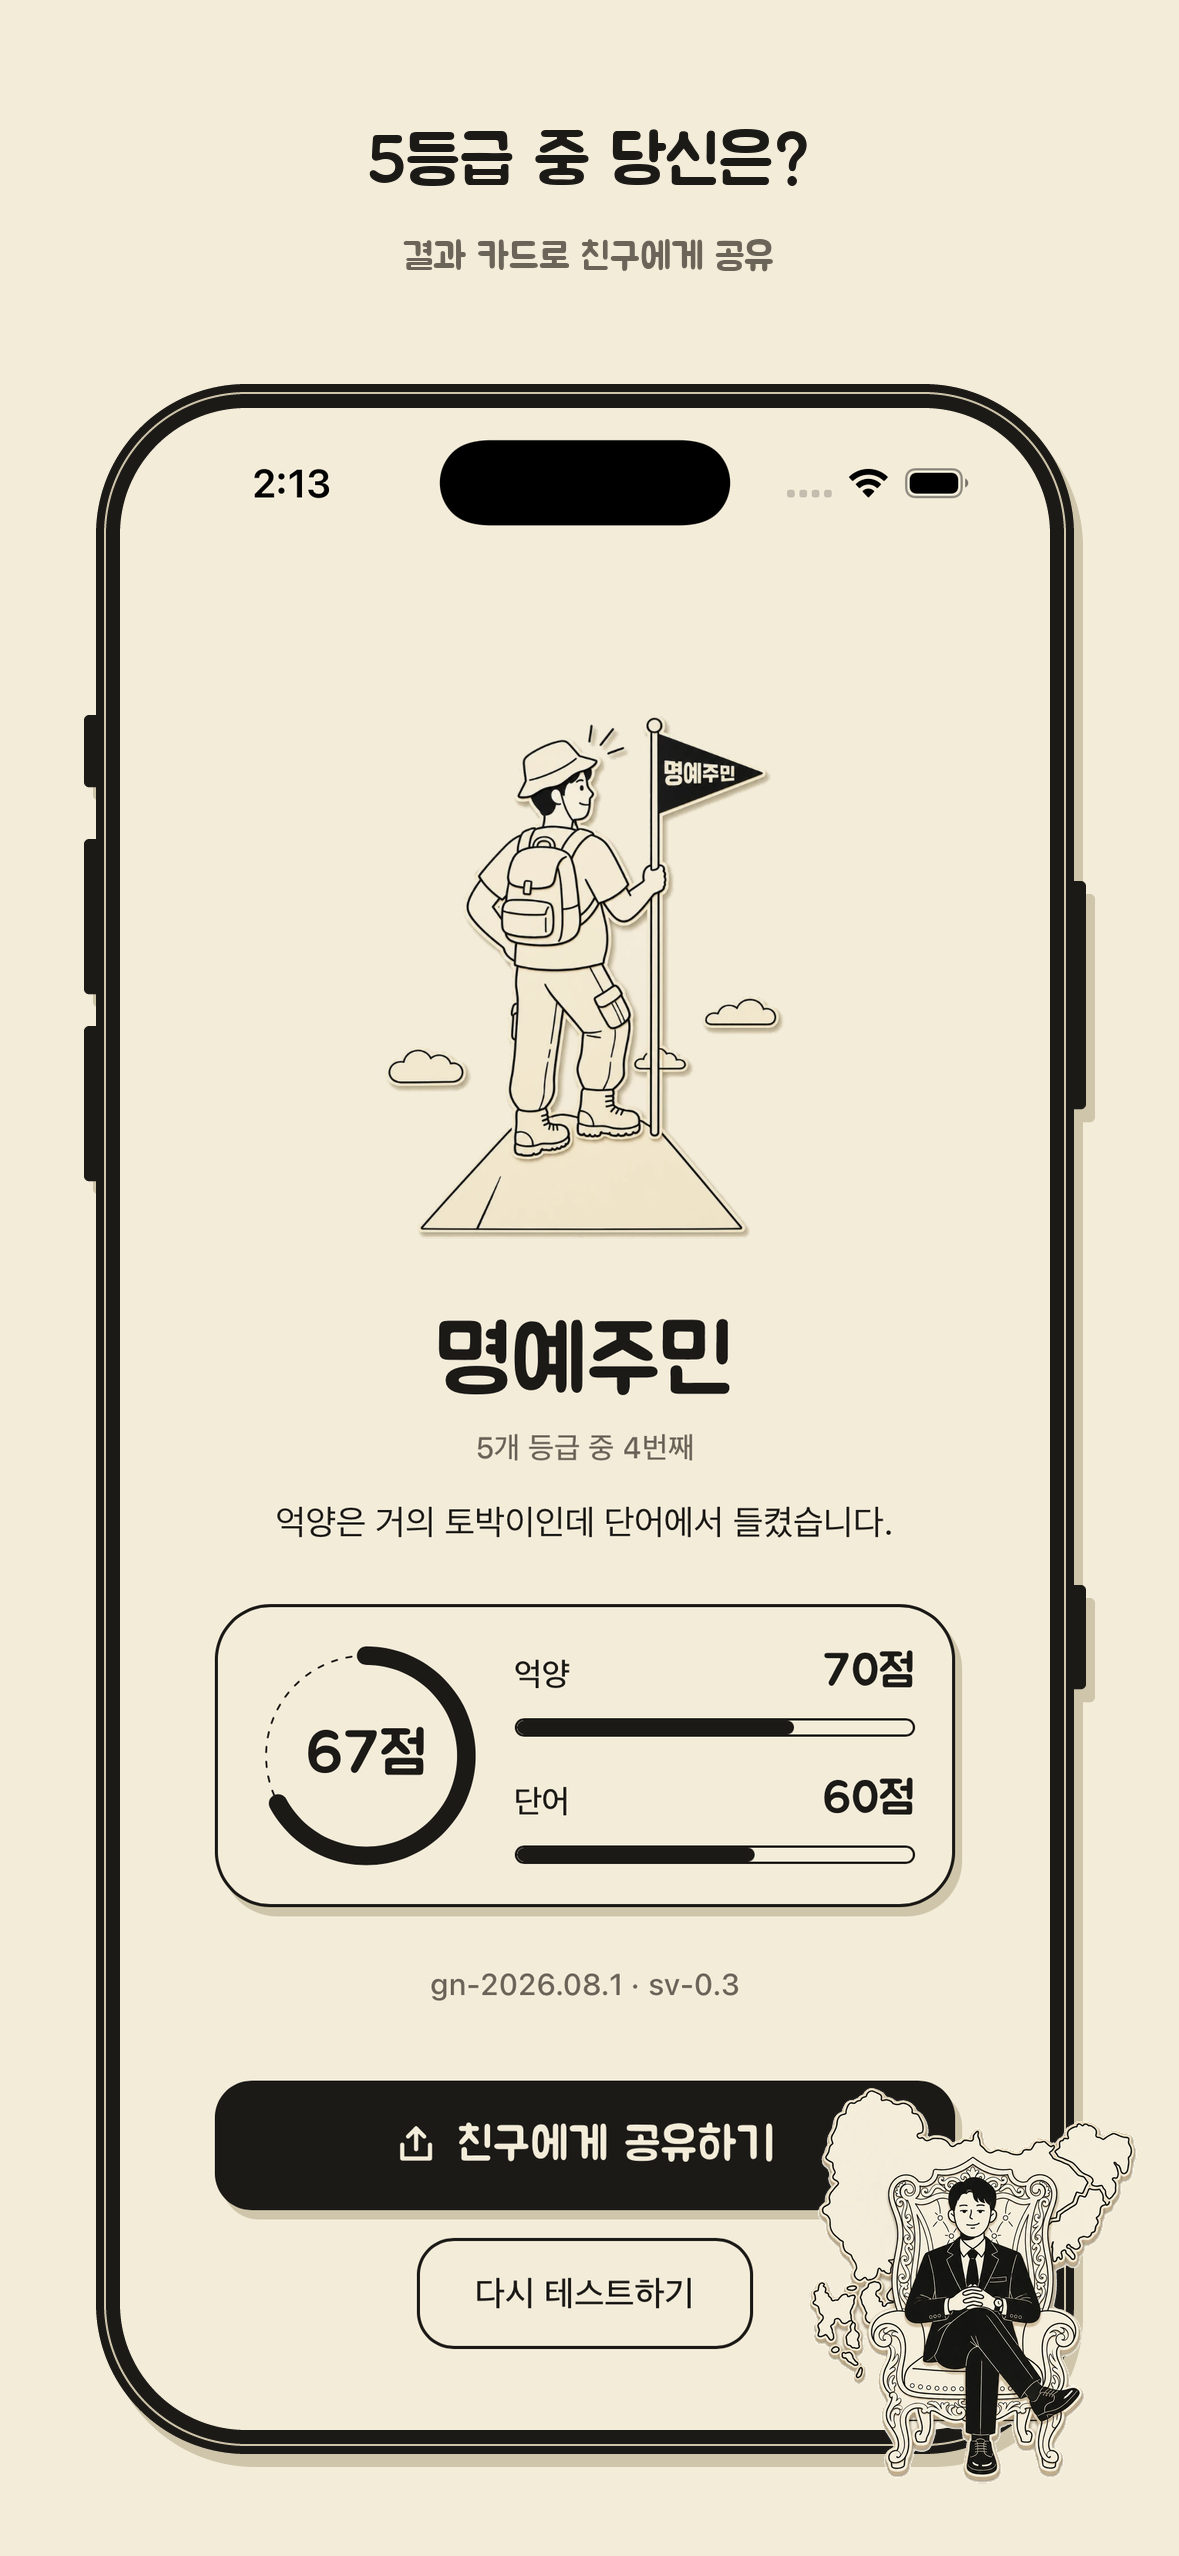
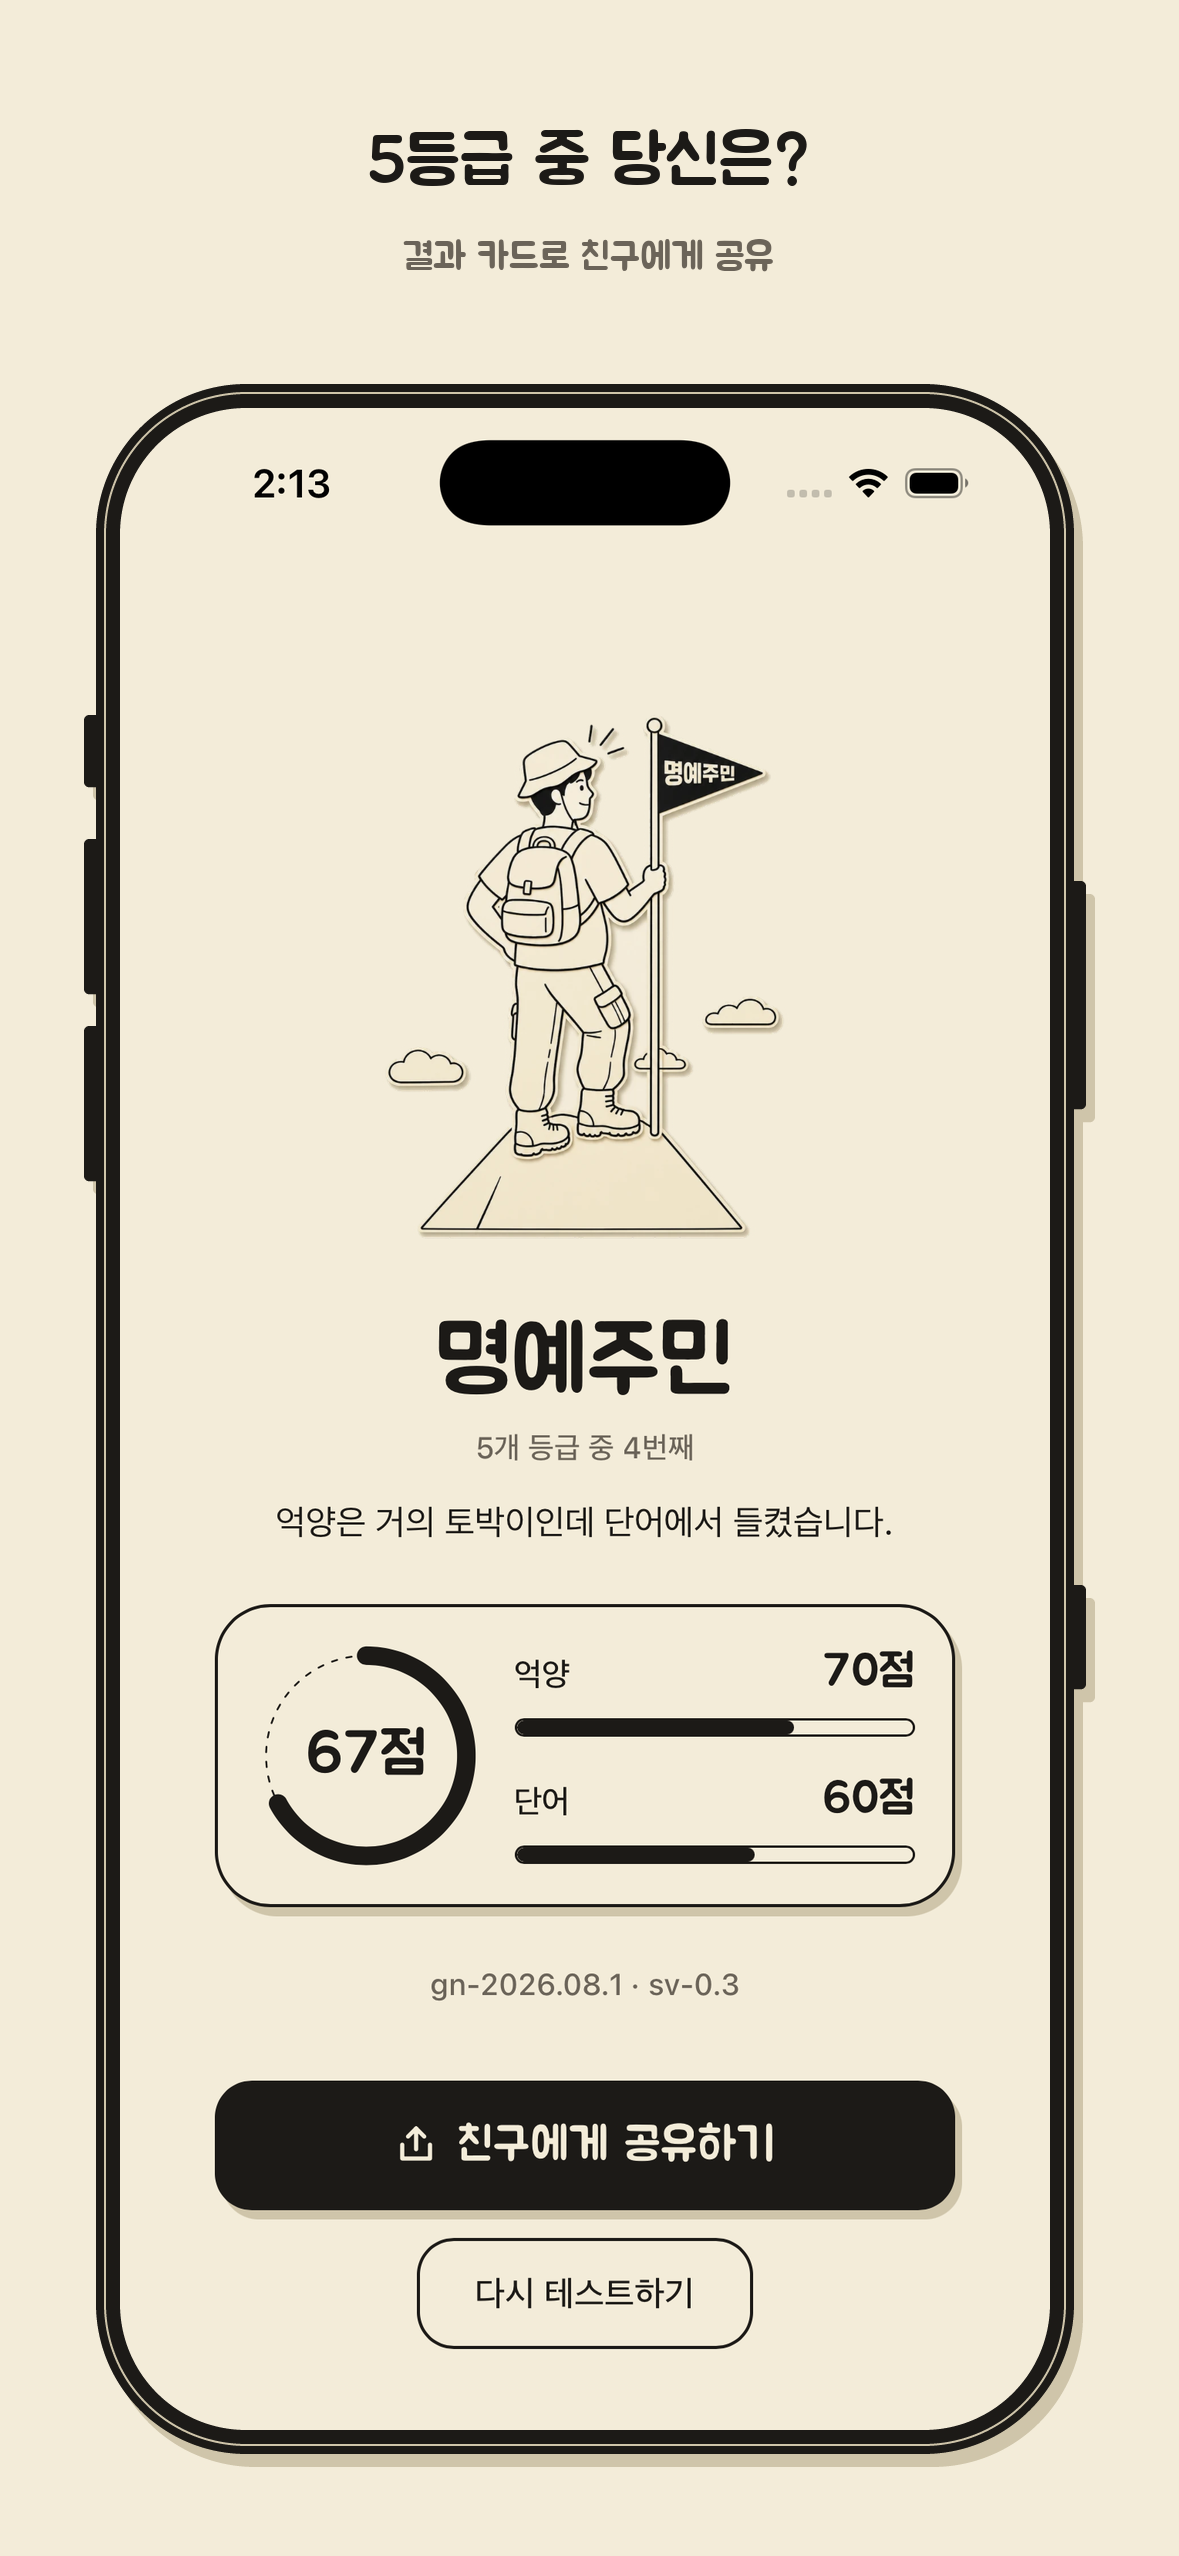
KAN-178 스크린샷 결과 화면 캐릭터 스티커 제거(STICKER_SCREEN=None)
Claude-Session: https://claude.ai/code/session_01Nud2Q8pYYmbEKkf6aeyY5Q

Changed region(s): [[0.6718, 0.8036, 0.9771, 0.989]]

diff --git a/assets/screenshots/build.py b/assets/screenshots/build.py
@@ -119,7 +119,7 @@ PLATFORM_DEVICE = {"android": DEVICE_GALAXY_S25, "ios": DEVICE_IPHONE_17_PRO}
 # --- 캐릭터 스티커 -------------------------------------------------------------------------
 # 결과 화면에만 "경남 토박이"를 겹쳐 놓는다. `assets/characters/build.py` 산출물이라 없으면 건너뛴다.
 STICKER_SRC = REPO / "web" / "src" / "assets" / "characters" / "native.webp"
-STICKER_SCREEN = "04-result"
+STICKER_SCREEN = None  # 스티커를 얹을 화면 id. 2026-09-03 결정으로 끔(None) — 결과 화면의 캐릭터와 겹쳐 보여 뺐다. 되살리려면 "04-result"
 STICKER_W = 0.28  # W 대비 폭
 STICKER_RIGHT, STICKER_BOTTOM = 0.035, 0.028  # W·H 대비 오른쪽·아래 여백
 
